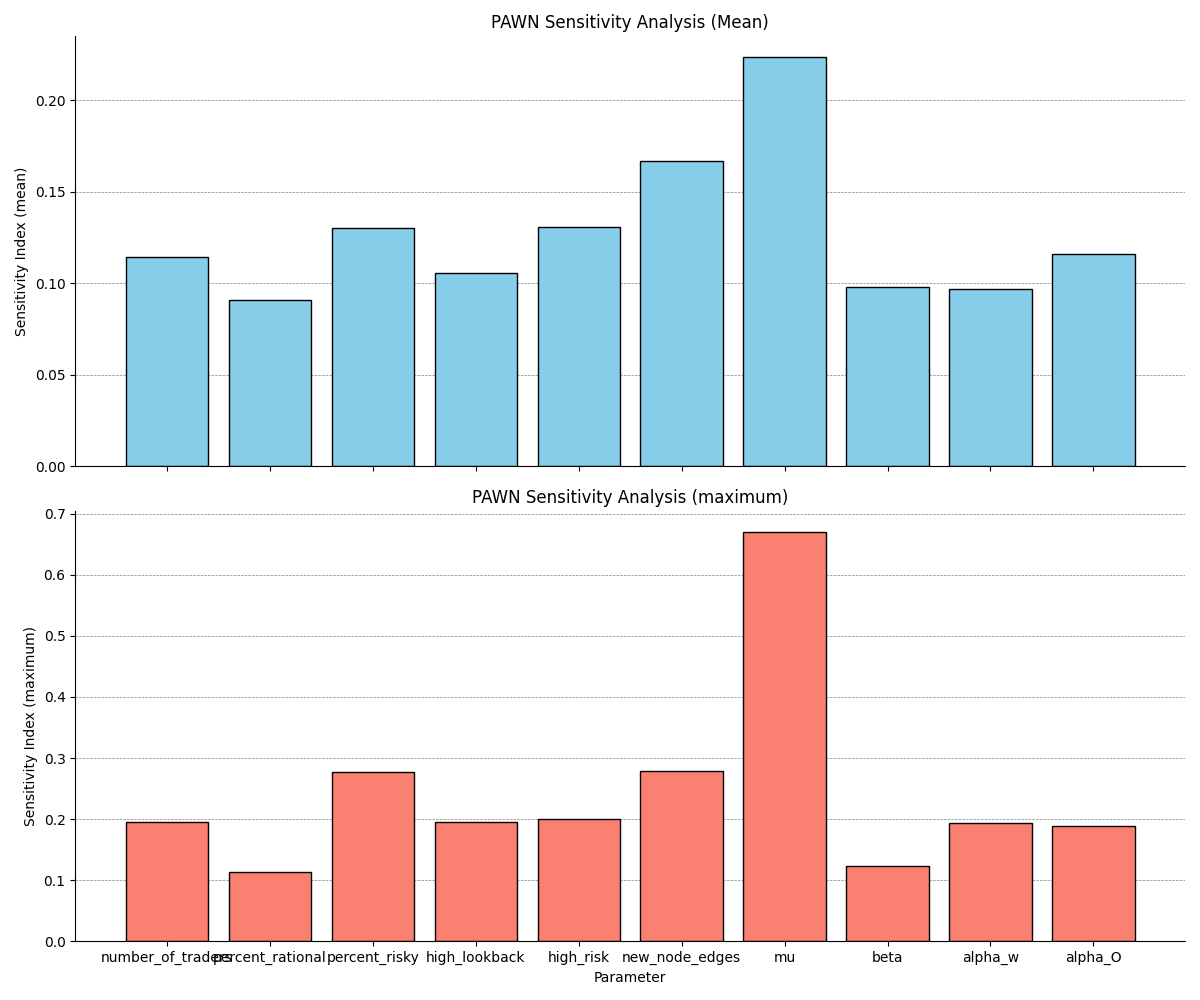
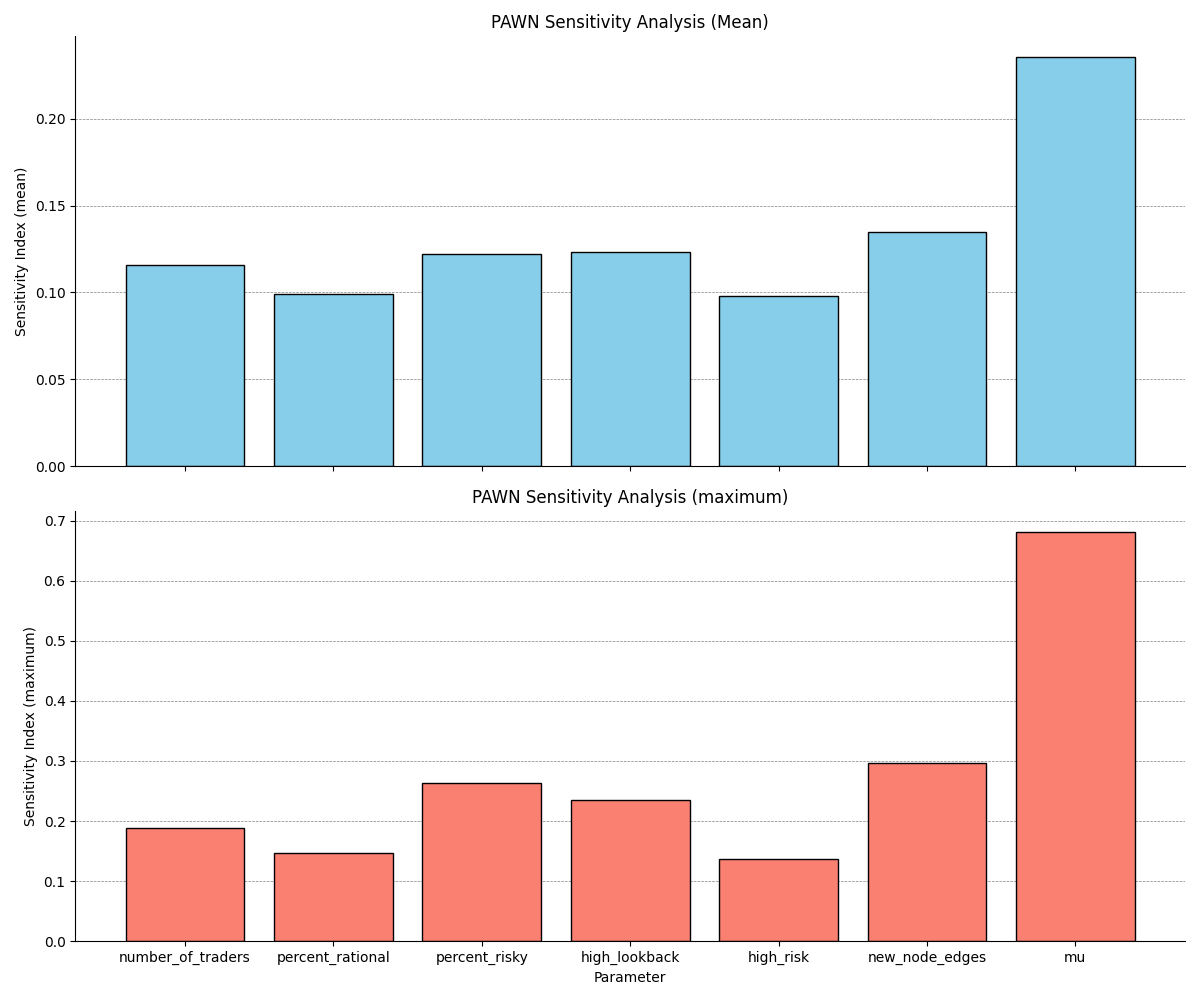
changed SA Plots

diff --git a/pawn-crashes .py b/pawn-crashes .py
@@ -33,9 +33,9 @@ def model(params_chunk):
             new_node_edges=int(params[5]),
             connection_probability=0.5,
             mu=params[6],
-            beta=params[7],
-            alpha_w=params[8],
-            alpha_O=params[9],
+            beta=1,
+            alpha_w=2668,
+            alpha_O=2.1,
             alpha_p=0
         )
 
@@ -45,11 +45,11 @@ def model(params_chunk):
     return results
 
 problem = {
-    'num_vars': 10,
+    'num_vars': 7,
     'names': [
         'number_of_traders', 'percent_rational', 'percent_risky',
         'high_lookback', 'high_risk', 'new_node_edges',
-        'mu', 'beta', 'alpha_w', 'alpha_O'
+        'mu'
     ],
     'bounds': [
         [50, 200],  # number_of_traders
@@ -59,9 +59,6 @@ problem = {
         [0.05, 0.20],  # high_risk
         [2, 10],  # new_node_edges
         [0.001, 0.1],  # mu
-        [0.1, 2.0],  # beta
-        [1000, 5000],  # alpha_w
-        [1.0, 3.0]  # alpha_O
     ]
 }
 
@@ -117,5 +114,5 @@ if __name__ == '__main__':
         ax.xaxis.grid(False)
 
     plt.tight_layout()
-    plt.savefig('pawn_sensitivity_analysis- frequency of crashes.svg')
+    plt.savefig('pawn_SA_crashes.jpeg')
     plt.show()

diff --git a/PAWN_VolClust.py b/PAWN_VolClust.py
@@ -30,23 +30,23 @@ def model(params_chunk):
             new_node_edges=int(params[5]),
             connection_probability=0.5,
             mu=params[6],
-            beta=params[7],
-            alpha_w=params[8],
-            alpha_O=params[9],
+            beta=1,
+            alpha_w=2668,
+            alpha_O=2.1,
             alpha_p=0
         )
         market = exp.run_simulation()
         y2 = exp.analyze_volatility_clustering(market.prices)
-        results.append(y2)
+        results.append(y2[0])
     return results
 
 # Define the problem for sensitivity analysis
 problem = {
-    'num_vars': 10,
+    'num_vars': 7,
     'names': [
         'number_of_traders', 'percent_rational', 'percent_risky',
         'high_lookback', 'high_risk', 'new_node_edges',
-        'mu', 'beta', 'alpha_w', 'alpha_O'
+        'mu'
     ],
     'bounds': [
         [50, 200],  # number_of_traders
@@ -56,9 +56,6 @@ problem = {
         [0.05, 0.20],  # high_risk
         [2, 10],  # new_node_edges
         [0.001, 0.1],  # mu
-        [0.1, 2.0],  # beta
-        [1000, 5000],  # alpha_w
-        [1.0, 3.0]  # alpha_O
     ]
 }
 

diff --git a/PAWN_SA.py b/PAWN_SA.py
@@ -30,9 +30,9 @@ def model(params_chunk):
             new_node_edges=int(params[5]),
             connection_probability=0.5,
             mu=params[6],
-            beta=params[7],
-            alpha_w=params[8],
-            alpha_O=params[9],
+            beta=1,
+            alpha_w=2668,
+            alpha_O=2.1,
             alpha_p=0
         )
         market = exp.run_simulation()
@@ -42,11 +42,11 @@ def model(params_chunk):
 
 # Define the problem for sensitivity analysis
 problem = {
-    'num_vars': 10,
+    'num_vars': 7,
     'names': [
         'number_of_traders', 'percent_rational', 'percent_risky',
         'high_lookback', 'high_risk', 'new_node_edges',
-        'mu', 'beta', 'alpha_w', 'alpha_O'
+        'mu'
     ],
     'bounds': [
         [50, 200],  # number_of_traders
@@ -56,9 +56,6 @@ problem = {
         [0.05, 0.20],  # high_risk
         [2, 10],  # new_node_edges
         [0.001, 0.1],  # mu
-        [0.1, 2.0],  # beta
-        [1000, 5000],  # alpha_w
-        [1.0, 3.0]  # alpha_O
     ]
 }
 
